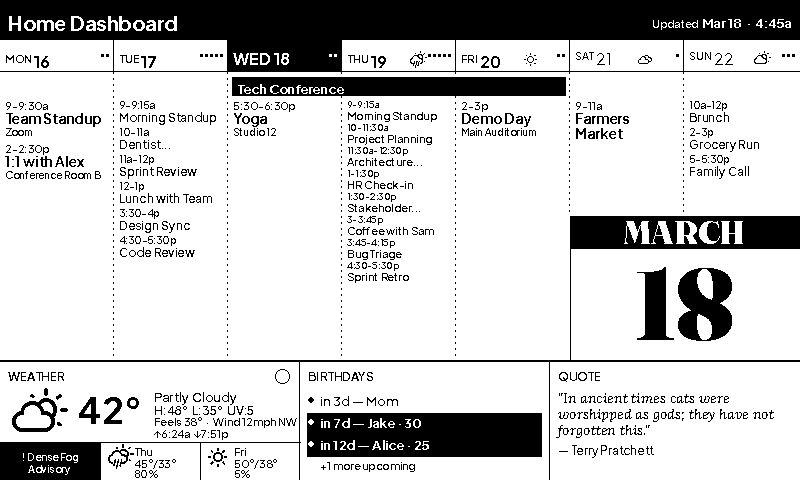
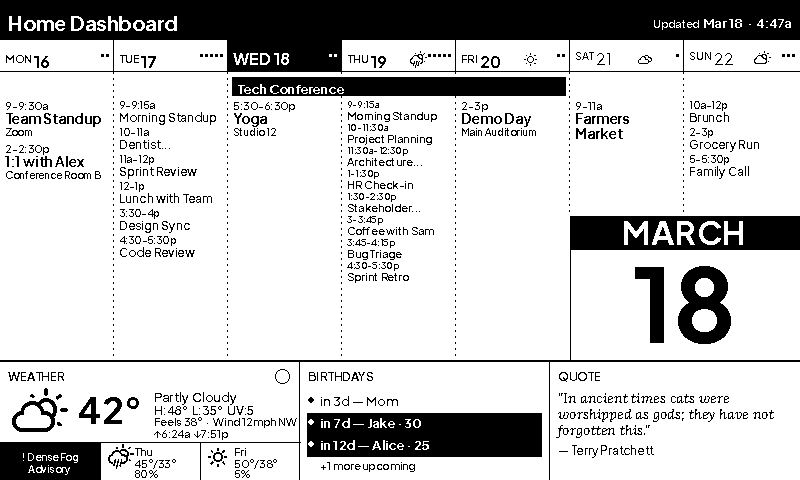
Revert month/date cell to Plus Jakarta Sans Bold
Keep bold(33) for month header and bold(100) for day number,
reverting the fraunces_bold experiment per user preference.

https://claude.ai/code/session_01Spxq8hpkbwm1XMJ5Fi5YUQ

Changed region(s): [[0.7812, 0.4688, 0.9375, 0.7188], [0.8125, 0.0312, 1.0, 0.0625]]

diff --git a/src/render/components/week_view.py b/src/render/components/week_view.py
@@ -4,7 +4,7 @@ from PIL import ImageDraw
 from src.data.models import CalendarEvent, DayForecast
 from src.render import layout as L
 from src.render.fonts import (
-    semibold, regular, bold, medium, fraunces_bold,
+    semibold, regular, bold, medium,
 )
 from src.render.icons import draw_weather_icon
 from src.render.primitives import (
@@ -105,7 +105,7 @@ def draw_week(
     day_num_font = bold(16)
 
     date_section_h = L.WEEK_DATE_SECTION_H
-    date_section_font = fraunces_bold(100)
+    date_section_font = bold(100)
     date_y = body_top + body_h - date_section_h  # top of combined date cell
 
     # Saturday is col 5 (Mon=0 … Sat=5, Sun=6)
@@ -248,7 +248,7 @@ def draw_week(
     vline(draw, sat_cx, date_y, y0 + L.WEEK_H - 1)
 
     # Combined "Today" cell — inverted month header, normal day number
-    month_font = fraunces_bold(33)
+    month_font = bold(33)
     month_text = today.strftime("%B").upper()
     mbb = draw.textbbox((0, 0), month_text, font=month_font)
     month_w = mbb[2] - mbb[0]
